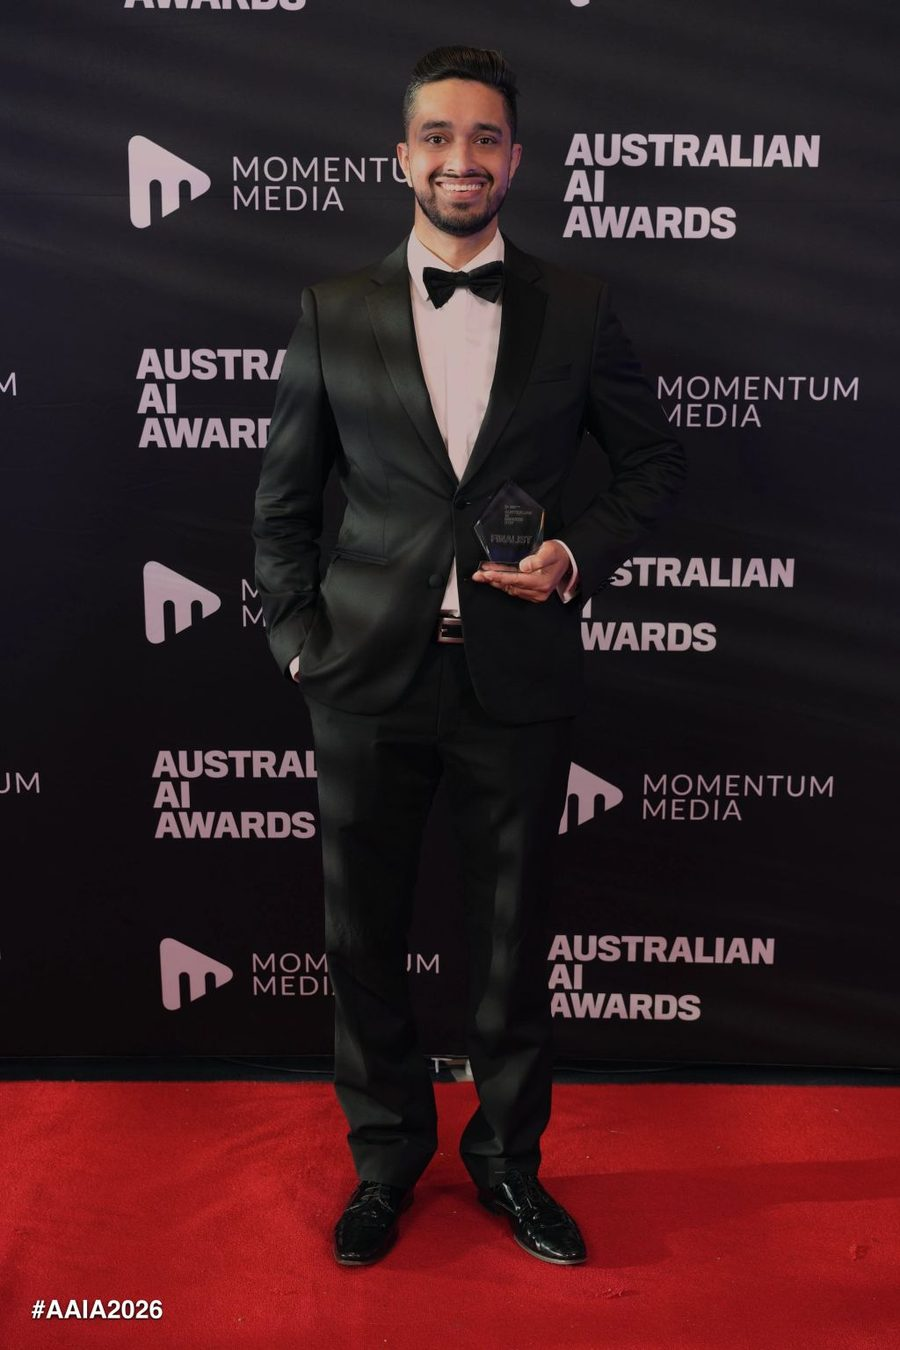
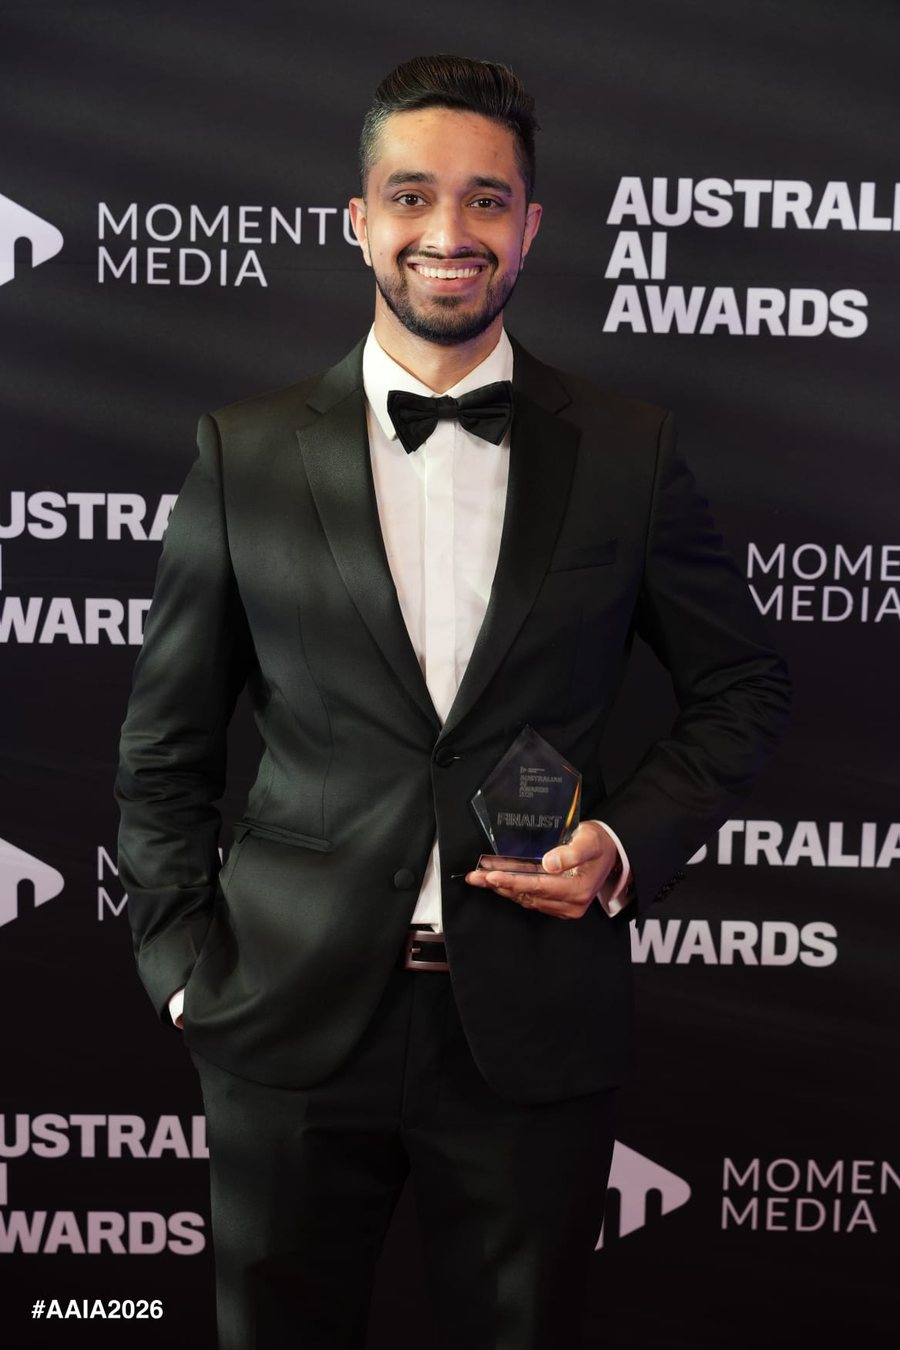
Name Accelevate (Founder and CEO), sharper awards photo, fix LinkedIn URL
Claude-Session: https://claude.ai/code/session_016zDPTzFHhd7X7WmwLxRDUU

diff --git a/app/lib/site.config.ts b/app/lib/site.config.ts
@@ -23,8 +23,8 @@
  *                            never real patient/client data.)
  *
  * GUARDRAILS: every copy string below is resume-fact only. No employer-internal
- * client metrics. No em dashes anywhere in copy. Keep Accelevate low-profile;
- * own ventures never appear in the employer logo strip.
+ * client metrics. No em dashes anywhere in copy. Accelevate is named (Founder
+ * and CEO, Nov 2026); own ventures never appear in the employer logo strip.
  */
 
 /** HERO - static headline + subline (the word-flip is gone). The headline is
@@ -34,7 +34,7 @@ export const HERO_HEADLINE_LEAD =
   "Complex technical systems, built end to end";
 export const HERO_HEADLINE_QUALIFIER = "in high-stakes environments.";
 export const HERO_SUBLINE =
-  "Product leader and technical founder. A decade in healthtech, now building agentic systems that hold up in production.";
+  "Founder and CEO of Accelevate. A decade in healthtech, now building voice AI and agentic systems that hold up in production.";
 
 /** 2. LOGO STRIP - former EMPLOYERS ONLY (no own ventures), one resume-fact
  *  hover line each. Real logos in place, normalised to white/mono (incubate is
@@ -155,8 +155,9 @@ export const COORDS = "33.8688° S, 151.2093° E";
 
 /** Contact + links. */
 export const CONTACT_EMAIL = "ahson@ahson.com.au";
+export const ACCELEVATE_URL = "https://accelevate.com.au";
 export const SITE_URL = "https://ahson.com.au";
-export const LINKEDIN_URL = "https://www.linkedin.com/in/ahsonkamal";
+export const LINKEDIN_URL = "https://www.linkedin.com/in/ahson-kamal";
 
 /* SELECTED WORK is intentionally absent from this build: ventures (Locum
    Motion, Accelevate) get a dedicated section later, and never appear in the
@@ -195,9 +196,9 @@ export const OG_IMAGE = "/assets/recognition/og-ahson-kamal.jpg";
  *  structured data in app/layout.tsx. Resume-fact only, same guardrails as the
  *  copy above. Add worksFor / more sameAs links here when ready. */
 export const SEO_TITLE =
-  "Ahson Kamal | Technical founder and product leader, Sydney";
+  "Ahson Kamal | Founder and CEO of Accelevate, Sydney";
 export const SEO_DESCRIPTION =
-  "Ahson Kamal is a Sydney technical founder and product leader. A decade in Australian healthtech, now building voice AI and agentic systems that hold up in production. Finalist, AI Leader of the Year (SME), Australian AI Awards 2026.";
+  "Ahson Kamal is the Founder and CEO of Accelevate, the AI voice receptionist, based in Sydney. A decade in Australian healthtech, now building voice AI and agentic systems that hold up in production. Finalist, AI Leader of the Year (SME), Australian AI Awards 2026.";
 export const PERSON_JSONLD = {
   "@context": "https://schema.org",
   "@type": "Person",
@@ -205,7 +206,12 @@ export const PERSON_JSONLD = {
   url: SITE_URL,
   image: `${SITE_URL}${RECOGNITION.photo.src}`,
   email: `mailto:${CONTACT_EMAIL}`,
-  jobTitle: "Technical founder and product leader",
+  jobTitle: "Founder and CEO",
+  worksFor: {
+    "@type": "Organization",
+    name: "Accelevate",
+    url: ACCELEVATE_URL,
+  },
   description: SEO_DESCRIPTION,
   address: {
     "@type": "PostalAddress",
